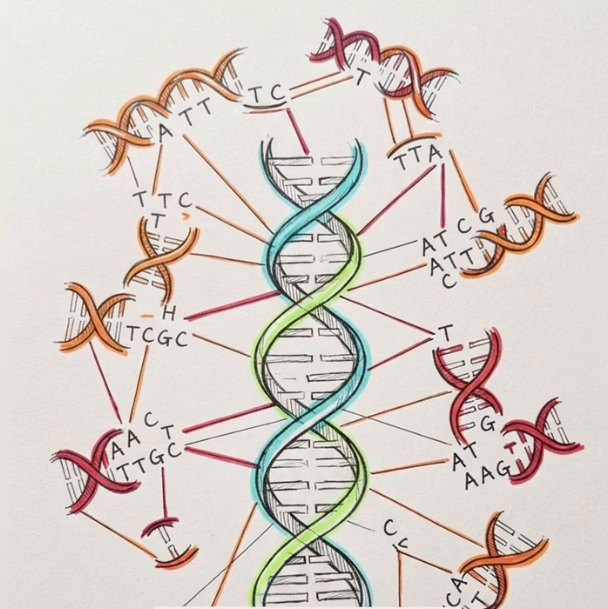
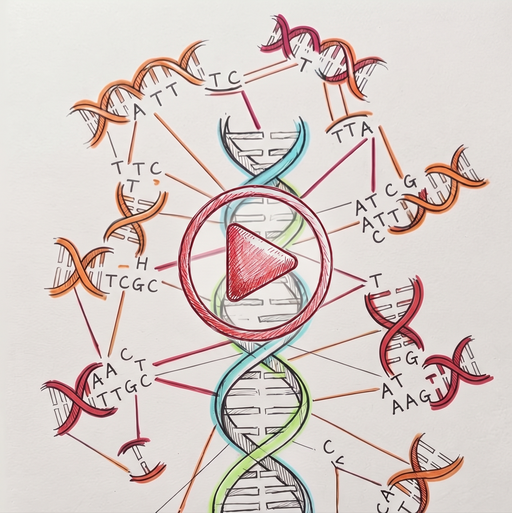
docs: update README for clarity and add introductory video

diff --git a/README.md b/README.md
@@ -9,13 +9,15 @@ assembler, designed to reconstruct contiguous sequences (*contigs*) from short
 overlapping string fragments or DNA sequencing reads. An [interactive web
 implementation][web-app] is also available to visualise the algorithm.
 
+The following video gives a short introduction:
+
 [![How Algorithms Rebuild Shattered DNA][banner-image]][video-url]
 
 ## Overview
 
-Reconstructing a DNA sequence from short fragments – a foundational step in
-*de novo* genome assembly – can be approximated through the
-Overlap-Layout-Consensus (OLC) paradigm.
+Reconstructing a DNA sequence from short fragments – a foundational step in *de
+novo* genome assembly – can be approximated through the Overlap-Layout-Consensus
+(OLC) paradigm.
 
 This project implements a deterministic, pure functional greedy overlap
 reduction algorithm that:
@@ -31,8 +33,8 @@ reduction algorithm that:
 
 ## Architecture
 
-The system enforces a clean separation of concerns between effectful stream
-I/O and pure functional sequence reconstruction.
+The system enforces a clean separation of concerns between effectful stream I/O
+and pure functional sequence reconstruction.
 
 ### Component Diagram
 
@@ -108,8 +110,7 @@ sequenceDiagram
 
 ### Prerequisites
 
-- [GHC][ghc-url] 9.6.7 (as used by CI; the Cabal file requires
-  `base ^>=4.18.3`)
+- [GHC][ghc-url] 9.6.7 (as used by CI; the Cabal file requires `base ^>=4.18.3`)
 - [Cabal][cabal-url] (>= 3.0)
 - Optional: `make` for task automation, plus `stylish-haskell`, `cabal-fmt`,
   `hlint` and `hasktags` for `make format` and `make check`
